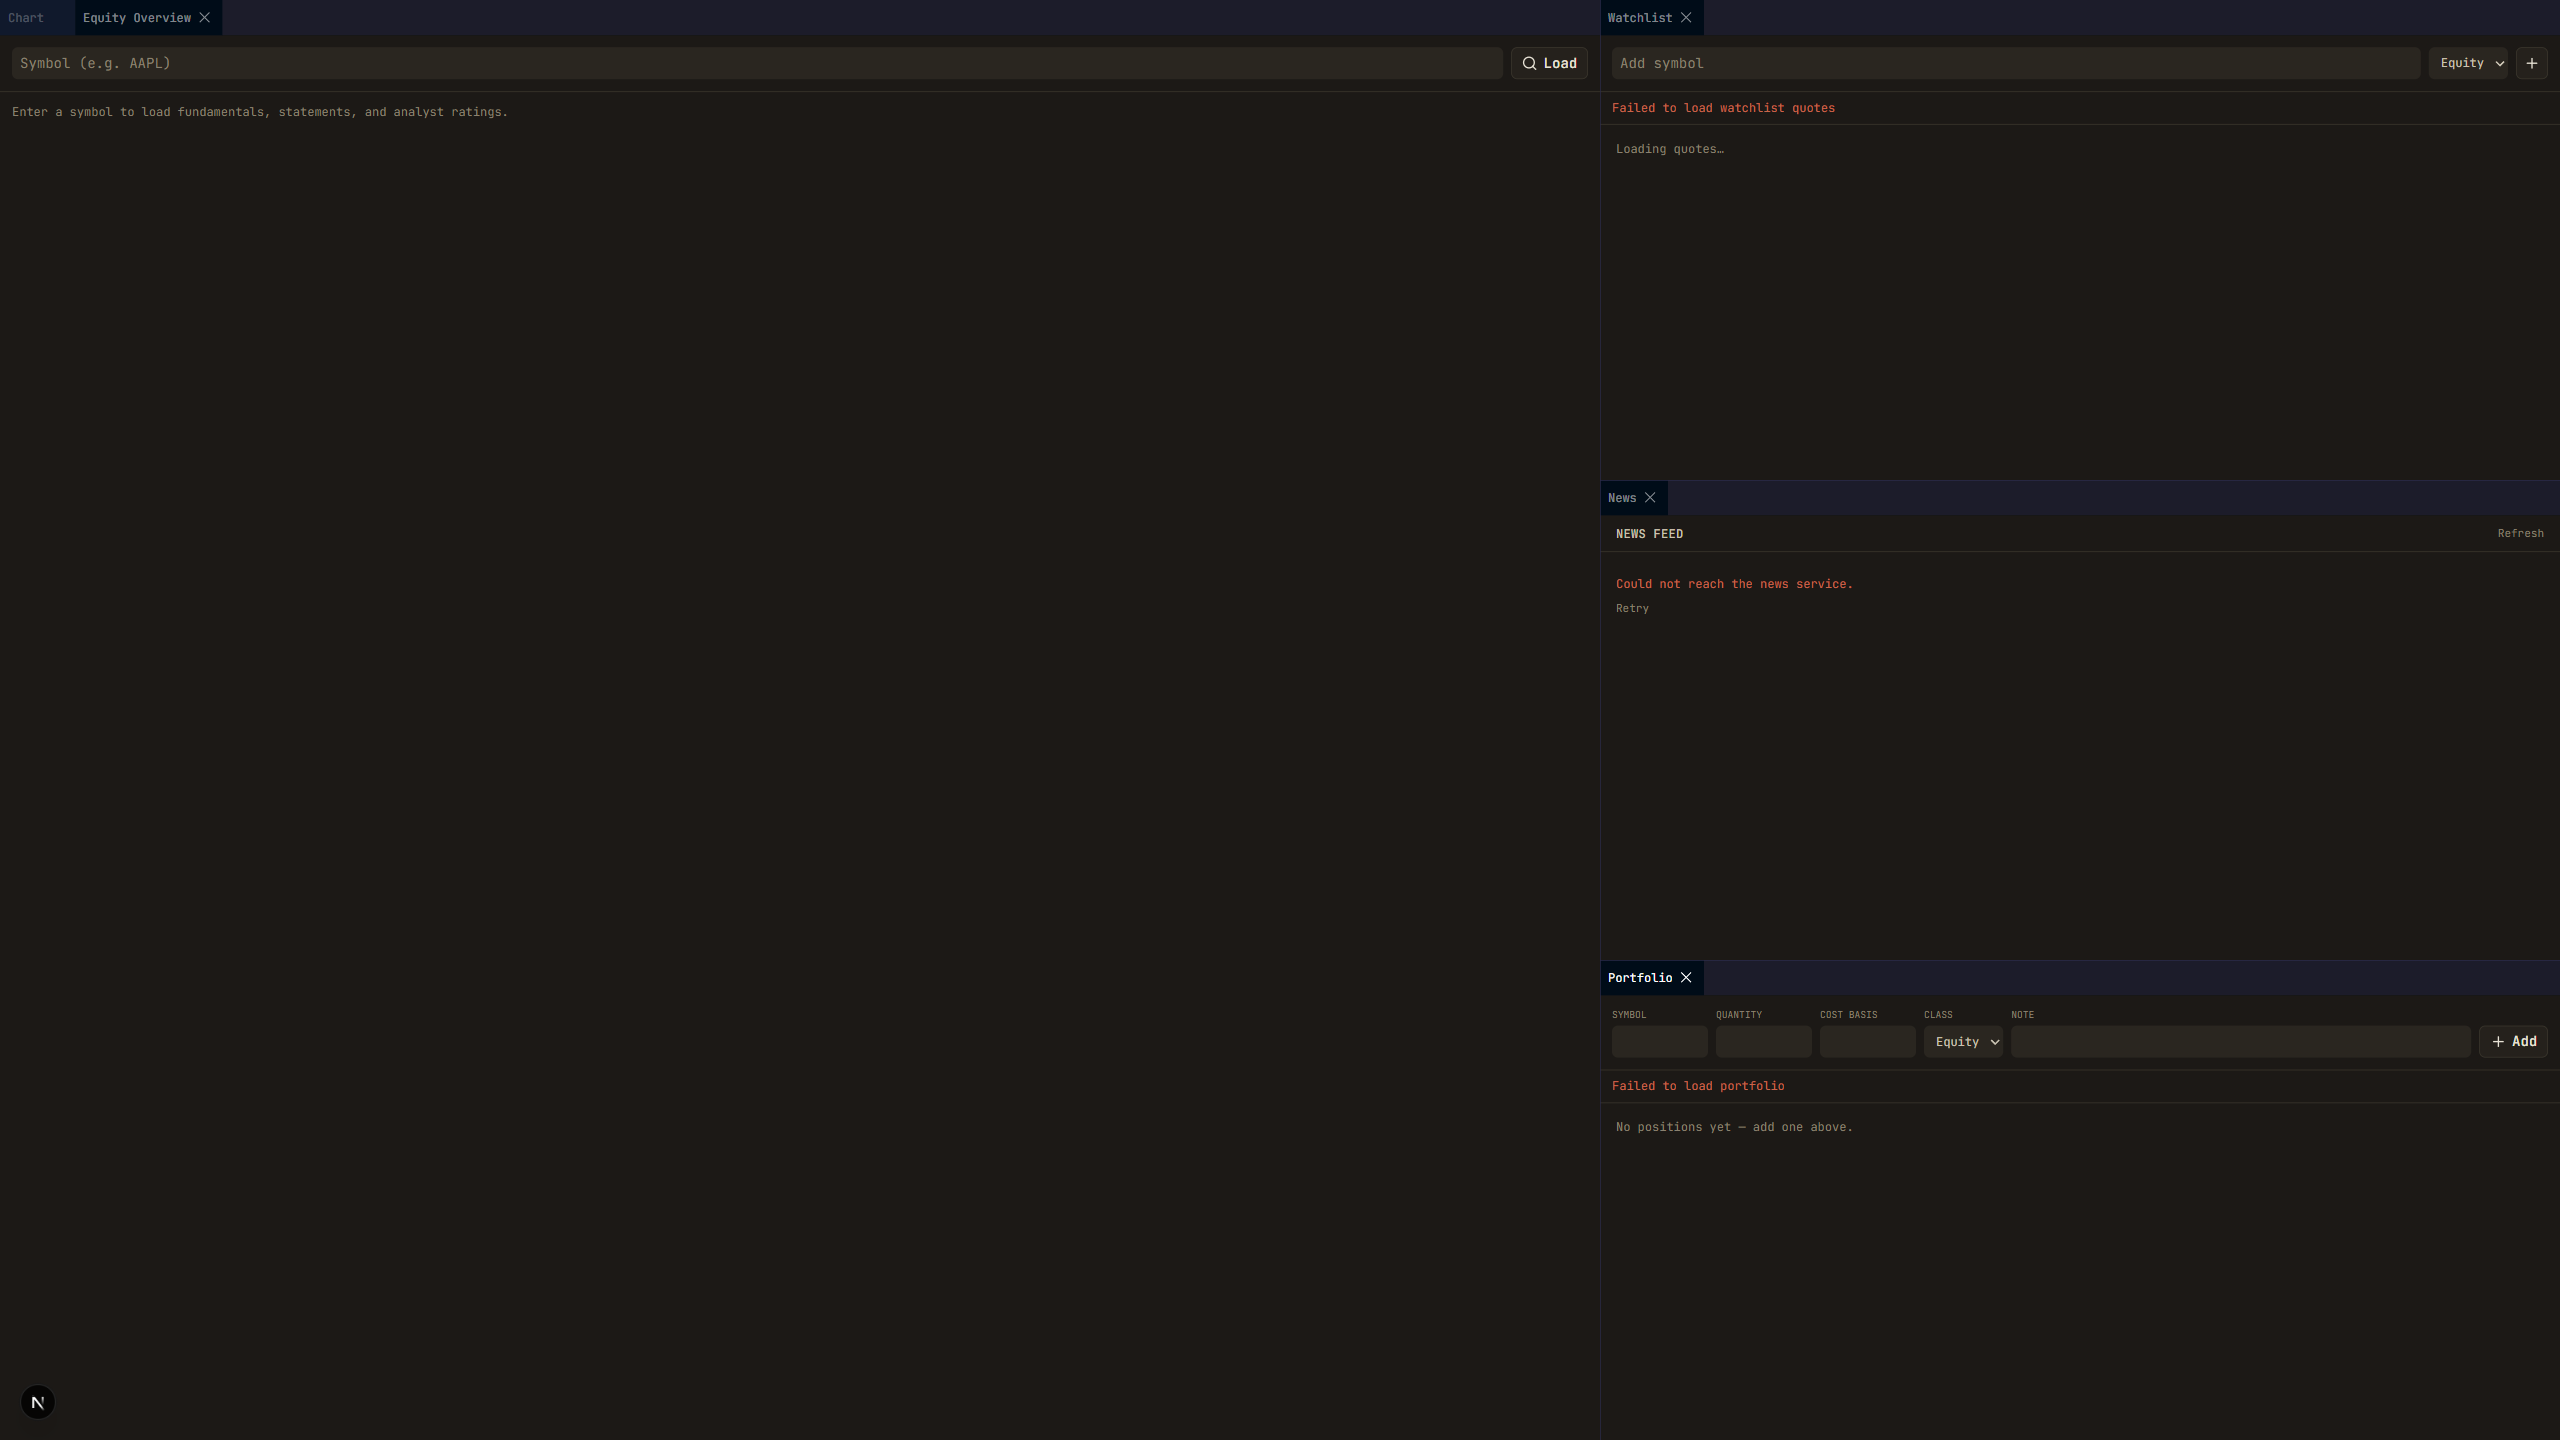
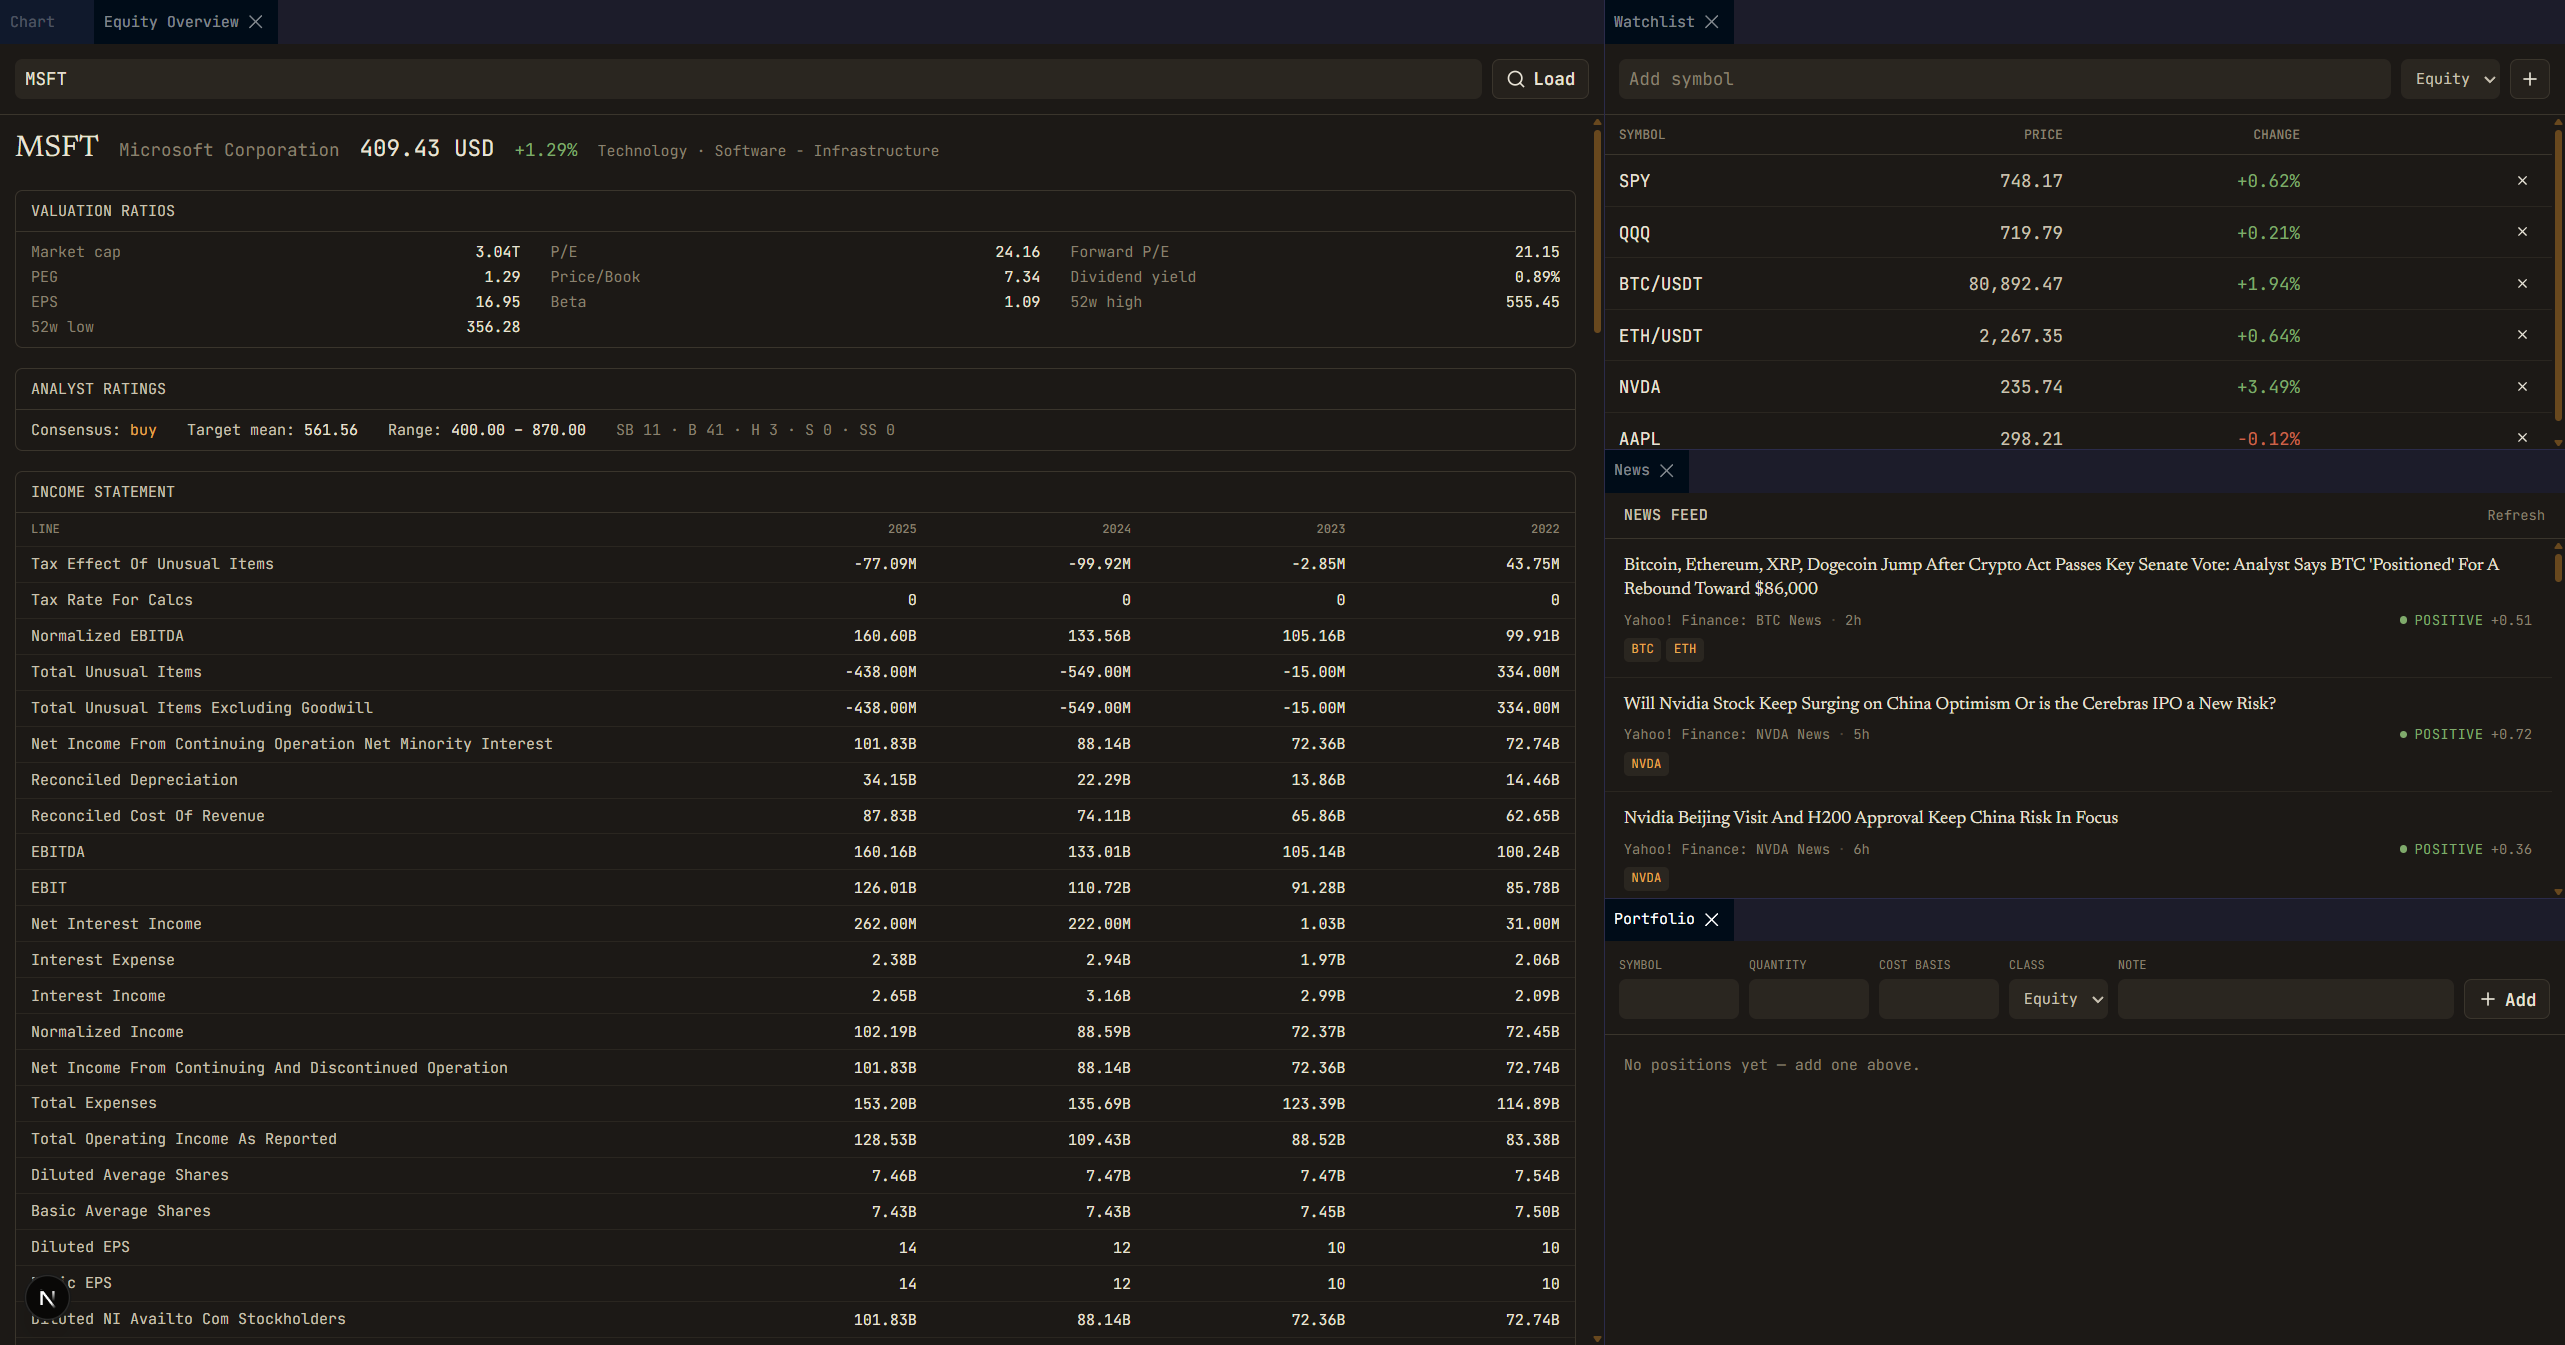
fix(equity-overview): constrain income statement tables to panel width (residual from v0.2.1 polish)
The v0.2.1 panel-fit pass added overflow-x-hidden + scrollbar-gutter:stable
on the EquityOverviewPanel scroll container, but the income statement table
itself could still push past the panel width when populated with real data —
yfinance line labels like "Net Income From Continuing Operation Net Minority
Interest" (56 chars) and "Diluted NI Availto Com Stockholders" forced the
table beyond the container even with table-fixed, because the LINE column had
no explicit width.

Fix: <colgroup> with explicit column widths (LINE 45 %, period columns share
55 % evenly) plus break-words + leading-tight on the LINE cell so long labels
wrap inside the column instead of pushing the table wider. Applies to all
three statement tables (income / balance / cash flow) via the shared
StatementTable component.

Verified at 1920×1080 and 2560×1440 against AAPL, MSFT, BRK.B, VZ — every
statement table fits inside the panel for every symbol, zero horizontal
overflow. The existing layout-1920x1080.png and layout-2560x1440.png screenshots
were taken with Equity Overview empty (which hid this bug); they now show
populated AAPL and MSFT panels respectively.

diff --git a/src/modules/equity-overview/EquityOverviewPanel.tsx b/src/modules/equity-overview/EquityOverviewPanel.tsx
@@ -69,11 +69,22 @@ function StatementTable({
         <p className="text-charcoal-400 px-3 py-2 font-mono text-xs">Unavailable.</p>
       ) : (
         <table className="w-full table-fixed border-collapse">
+          {/* Explicit column widths via <colgroup> — LINE gets 45 %, the period
+              columns share the remaining 55 % evenly so the table always fits
+              the panel width regardless of how long a line label is.
+              `table-fixed` plus these widths means the line text wraps inside
+              its cell rather than pushing the whole table past the container. */}
+          <colgroup>
+            <col style={{ width: "45%" }} />
+            {statement.periods.map((period) => (
+              <col key={period} style={{ width: `${55 / statement.periods.length}%` }} />
+            ))}
+          </colgroup>
           <thead>
             <tr className="text-charcoal-400 border-charcoal-800 border-b text-left font-mono text-[0.6rem] uppercase">
               <th className="px-3 py-1.5 font-medium">Line</th>
               {statement.periods.map((period) => (
-                <th key={period} className="w-24 px-3 py-1.5 text-right font-medium">
+                <th key={period} className="px-3 py-1.5 text-right font-medium">
                   {period}
                 </th>
               ))}
@@ -83,7 +94,7 @@ function StatementTable({
             {statement.lines.map((line) => (
               <tr key={line.label} className="border-charcoal-800 border-b font-mono text-xs">
                 <td
-                  className="text-charcoal-200 overflow-hidden px-3 py-1.5 text-ellipsis whitespace-nowrap"
+                  className="text-charcoal-200 px-3 py-1.5 leading-tight break-words"
                   title={line.label}
                 >
                   {line.label}